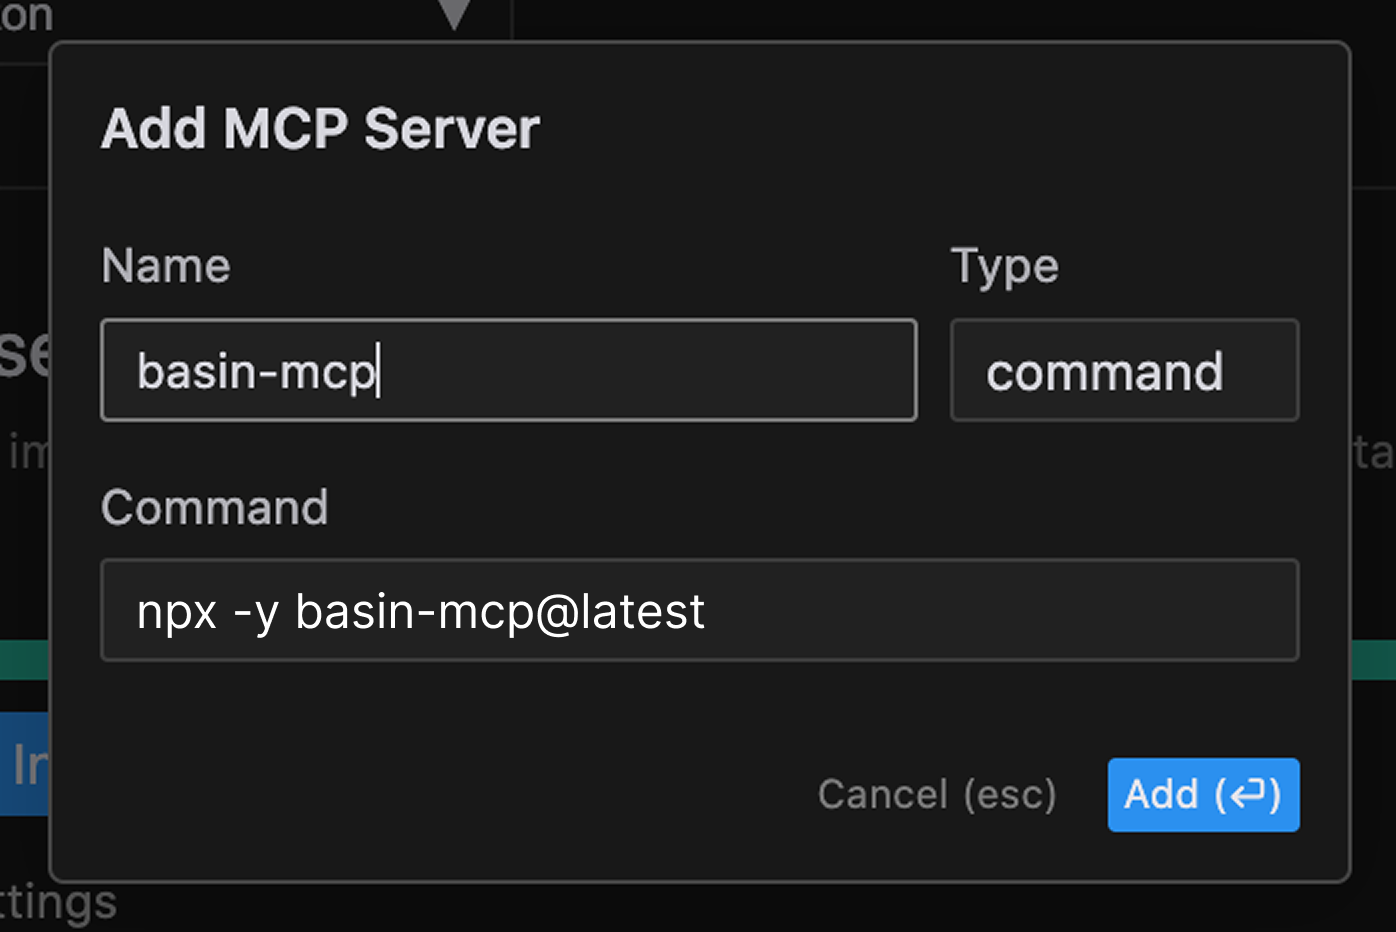
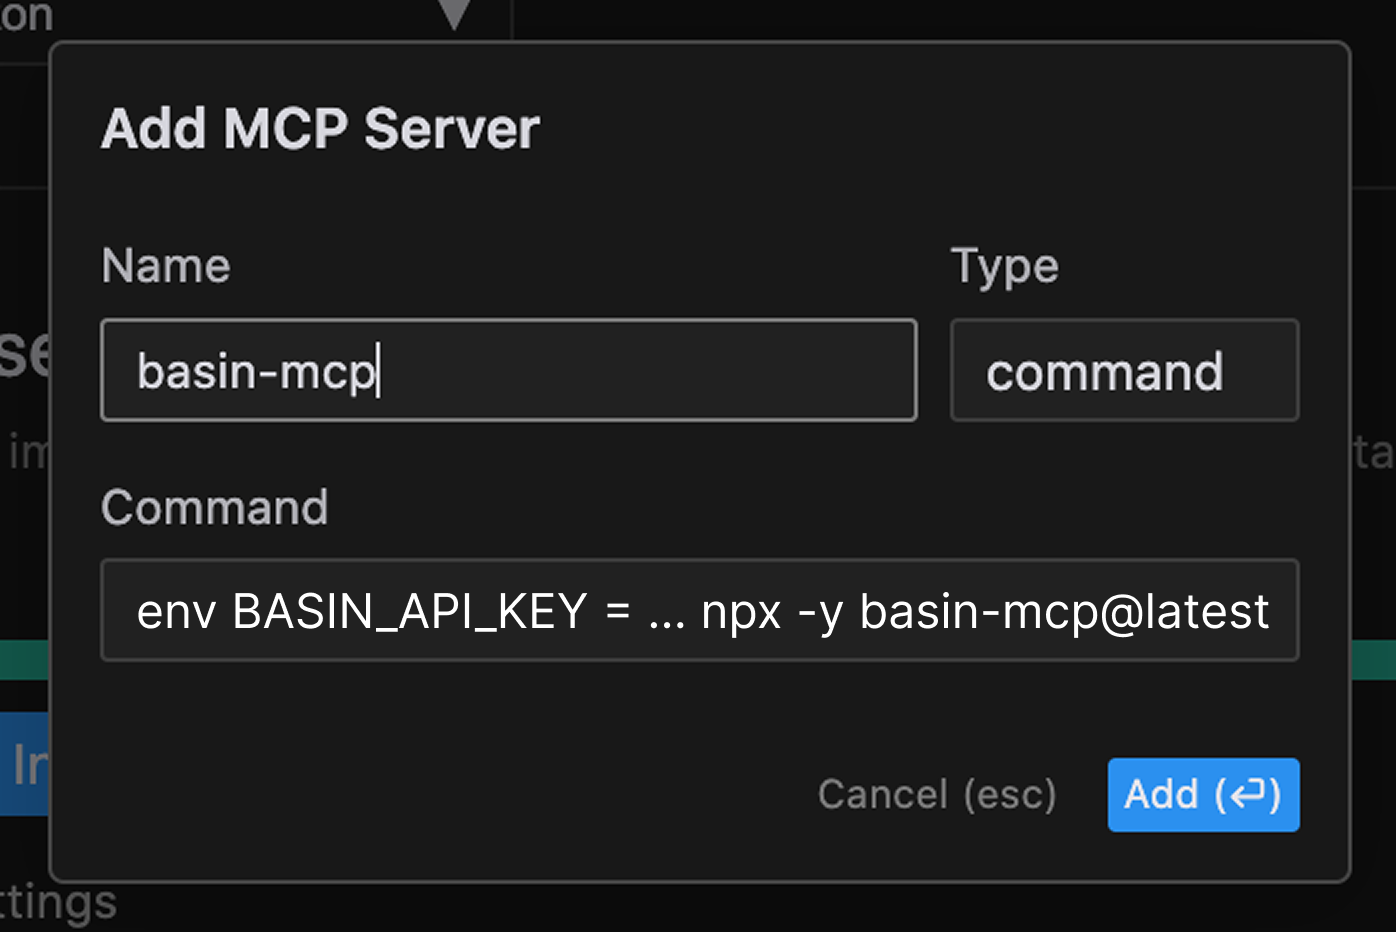
updated api key instruction

Changed region(s): [[0.0924, 0.6223, 0.5544, 0.6845], [0.5852, 0.6223, 0.9241, 0.6845]]

diff --git a/src/check_quality.ts b/src/check_quality.ts
@@ -2,7 +2,7 @@ import { executeBasinTest, getTestPlan } from "basin-executor-lib";
 import { BASIN_HOST, CURRENT_BASIN_PROTOCOL_VERSION } from "./const.js";
 import { TestPlan } from "basin-executor-lib/dist/test_plan.js";
 
-const API_KEY = process.env.BASIN_API_KEY || "";
+const BASIN_API_KEY = process.env.BASIN_API_KEY || "";
 
 const testPlanToLogs = (testPlan: TestPlan): any[] => {
   const items = Array.isArray(testPlan.testing_instructions) ? testPlan.testing_instructions :testPlan.testing_instructions.items ? testPlan.testing_instructions.items : testPlan.testing_instructions.instruction ? testPlan.testing_instructions.instruction : [];
@@ -20,7 +20,7 @@ const testPlanToLogs = (testPlan: TestPlan): any[] => {
 const checkCodeQuality = async (args: any) => {
   const threadId = args.threadId;
   const args_dump = JSON.stringify(args);
-  const testPlan = await getTestPlan(API_KEY, args_dump, threadId, CURRENT_BASIN_PROTOCOL_VERSION, BASIN_HOST);
+  const testPlan = await getTestPlan(BASIN_API_KEY, args_dump, threadId, CURRENT_BASIN_PROTOCOL_VERSION, BASIN_HOST);
   
   if (!testPlan || !testPlan.testing_instructions) {
     return {
@@ -33,7 +33,7 @@ const checkCodeQuality = async (args: any) => {
         };
   }
   const logs = testPlanToLogs(testPlan);
-  const result = await executeBasinTest(API_KEY, testPlan, testPlan.thead_id, CURRENT_BASIN_PROTOCOL_VERSION, BASIN_HOST);
+  const result = await executeBasinTest(BASIN_API_KEY, testPlan, testPlan.thead_id, CURRENT_BASIN_PROTOCOL_VERSION, BASIN_HOST);
   if (result.logs && Array.isArray(result.logs)) logs.push(...result.logs);
   logs.push({
     type: "text",

diff --git a/src/baseline_snapshot.ts b/src/baseline_snapshot.ts
@@ -1,7 +1,7 @@
 import { postSemanticBaseline } from "basin-executor-lib";
 import { BASIN_HOST, CURRENT_BASIN_PROTOCOL_VERSION } from "./const.js";
 
-const API_KEY = process.env.BASIN_API_KEY || "";
+const BASIN_API_KEY = process.env.BASIN_API_KEY || "";
 
 const takeBaselineSnapshot = async (args: any) => {
   // console.log(args);
@@ -13,11 +13,11 @@ const takeBaselineSnapshot = async (args: any) => {
   if (Array.isArray(endpoints)) {
     endpoints.forEach(async endpoint => {
       const url = new URL(endpoint, serverUrl).toString();
-      result = result && await postSemanticBaseline(API_KEY, prompt, threadId, url, CURRENT_BASIN_PROTOCOL_VERSION, BASIN_HOST);
+      result = result && await postSemanticBaseline(BASIN_API_KEY, prompt, threadId, url, CURRENT_BASIN_PROTOCOL_VERSION, BASIN_HOST);
     });
   } else {
     const url = new URL(endpoints, serverUrl).toString();
-    result = result && await postSemanticBaseline(API_KEY, prompt, threadId, url, CURRENT_BASIN_PROTOCOL_VERSION, BASIN_HOST);
+    result = result && await postSemanticBaseline(BASIN_API_KEY, prompt, threadId, url, CURRENT_BASIN_PROTOCOL_VERSION, BASIN_HOST);
   }
 
   return {

diff --git a/README.md b/README.md
@@ -9,12 +9,12 @@ A Model Context Protocol (MCP) server for Basin AI integration that provides cod
 If your code editor supports entering custom MCP server configuration in a single field, enter the following command:
 
 ```bash
-npx -y basin-mcp@latest
+env BASIN_API_KEY=<your_api_key_here> npx -y basin-mcp@latest
 ```
 
 ![MCP settings](mcp-settings.png)
 
-Make sure to add `API_KEY` to the environment settings of the MCP server to pass the API key to the MCP server.
+Make sure to add `BASIN_API_KEY` to the environment settings of the MCP server to pass the API key to the MCP server.
 
 ### Playwright
 Basin relies on Playwright to run tests, so you may need to ensure it's installed on your computer before using Basin MCP for the first time. To install it, run the following command:
@@ -33,7 +33,7 @@ Add the following to your `mcp_config.json`:
       "command": "npx",
       "args": ["-y", "basin-mcp@latest"],
       "env": {
-        "API_KEY": "your_api_key_here"
+        "BASIN_API_KEY": "your_api_key_here"
       }
     }
   }
